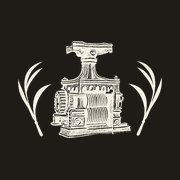
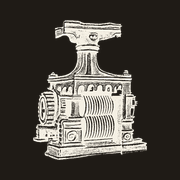
feat: remove compartilhar, salva login no aparelho e novo ícone da moenda
Login passa a ser guardado no gerenciador de senhas do aparelho e entra
sozinho quando há credencial salva. Ícone do app usa só a moenda, maior e
centralizado.

Claude-Session: https://claude.ai/code/session_01V3bzCXaJFJAvqZrzTezgY2

diff --git a/gestao/gestao.js b/gestao/gestao.js
@@ -1,5 +1,5 @@
-import { URL_SCRIPT } from "./config.js?v=8";
-import { iso, deIso, br, brl, parseValor, mascaraValor, noites, estadiaEm, saidaEm, conflito, grade, agora, fmtCheckIn, fmtCheckOut, HORA_CHECKOUT } from "./regras.js?v=8";
+import { URL_SCRIPT } from "./config.js?v=9";
+import { iso, deIso, br, brl, parseValor, mascaraValor, noites, estadiaEm, saidaEm, conflito, grade, agora, fmtCheckIn, fmtCheckOut, HORA_CHECKOUT } from "./regras.js?v=9";
 
 const QUARTOS = [1, 2, 3, 4, 5, 6, 7, 8, 9];
 const PAGAMENTOS = ["PIX", "Dinheiro", "Cartão de débito", "Cartão de crédito"];
@@ -56,6 +56,9 @@ function mostrarApp() {
 }
 function sair() {
   s.token = ""; s.regs = [];
+  $("senha").value = "";
+  // sair de propósito: o aparelho não deve entrar sozinho de novo até a próxima vez que tocar em Entrar
+  if (navigator.credentials?.preventSilentAccess) navigator.credentials.preventSilentAccess().catch(() => {});
   localStorage.removeItem(CHAVE_SESSAO);
   $("tela-app").hidden = true;
   $("tela-login").hidden = false;
@@ -71,7 +74,7 @@ $("form-login").addEventListener("submit", async (e) => {
     const r = await api("login", { usuario: $("usuario").value, senha: $("senha").value });
     s.token = r.token;
     localStorage.setItem(CHAVE_SESSAO, r.token);
-    $("senha").value = "";
+    await guardarSenha($("usuario").value, $("senha").value);
     mostrarApp();
     await carregar();
   } catch (err) {
@@ -81,6 +84,22 @@ $("form-login").addEventListener("submit", async (e) => {
   }
 });
 $("btn-sair").addEventListener("click", sair);
+
+// Gerenciador de senhas do celular/computador (Chrome, Android, Safari/iCloud): oferece salvar e preencher.
+async function guardarSenha(id, senha) {
+  if (!window.PasswordCredential || !navigator.credentials?.store) return;
+  try { await navigator.credentials.store(new PasswordCredential({ id, password: senha, name: id })); } catch (e) { /* o navegador decide */ }
+}
+async function entrarComSalva() {
+  if (s.token || !window.PasswordCredential || !navigator.credentials?.get) return;
+  try {
+    const c = await navigator.credentials.get({ password: true, mediation: "silent" });
+    if (c && c.password) {
+      $("usuario").value = c.id; $("senha").value = c.password;
+      $("form-login").requestSubmit();
+    }
+  } catch (e) { /* sem credencial salva: o preenchimento automático do navegador cuida */ }
+}
 $("btn-atualizar").addEventListener("click", async () => {
   try { await carregar(); avisar("Dados atualizados da planilha."); } catch (e) { avisar(e.message, true); }
 });
@@ -336,7 +355,7 @@ document.addEventListener("keydown", (e) => {
   if (s.picker) fecharPicker(); else if (s.quarto) fecharModal();
 });
 
-// ---------- compartilhar e instalar como aplicativo ----------
+// ---------- instalar como aplicativo ----------
 const URL_PAGINA = new URL("./", location.href).href;
 const modoApp = () => matchMedia("(display-mode: standalone)").matches || navigator.standalone === true;
 const ehIos = /iphone|ipad|ipod/i.test(navigator.userAgent);
@@ -348,14 +367,6 @@ if (modoApp()) document.querySelectorAll("[data-instalar]").forEach((b) => { b.h
 function recado(msg) {
   if (!$("tela-app").hidden) return avisar(msg);
   const d = $("dica"); d.textContent = msg; d.hidden = false;
-}
-async function compartilhar() {
-  const dados = { title: "Gestão · Pousada Engenho do Vô", text: "Acesso privado da pousada", url: URL_PAGINA };
-  if (navigator.share) {
-    try { await navigator.share(dados); return; } catch (e) { if (e.name === "AbortError") return; }
-  }
-  try { await navigator.clipboard.writeText(URL_PAGINA); recado("Link copiado: " + URL_PAGINA); }
-  catch (e) { recado("Copie o link: " + URL_PAGINA); }
 }
 async function instalar() {
   if (modoApp()) return recado("O aplicativo já está instalado neste aparelho.");
@@ -371,12 +382,12 @@ async function instalar() {
 }
 document.addEventListener("click", (e) => {
   const a = e.target.closest("[data-acao]")?.dataset.acao;
-  if (a === "compartilhar") compartilhar();
-  else if (a === "instalar") instalar();
+  if (a === "instalar") instalar();
 });
 if ("serviceWorker" in navigator) navigator.serviceWorker.register("sw.js", { scope: "./" }).catch(() => {});
 
 // ---------- início ----------
+entrarComSalva();
 if (s.token) {
   mostrarApp();
   carregar().catch((e) => { if (s.token) avisar(e.message, true); });

diff --git a/gestao/index.html b/gestao/index.html
@@ -12,27 +12,26 @@
   <link rel="apple-touch-icon" href="icones/apple-touch-icon.png">
   <meta name="robots" content="noindex, nofollow">
   <title>Acesso privado · Pousada Engenho do Vô</title>
-  <link rel="icon" href="../assets/logo/favicon.png">
+  <link rel="icon" href="icones/icone-192.png">
   <link rel="preconnect" href="https://fonts.googleapis.com">
   <link rel="preconnect" href="https://fonts.gstatic.com" crossorigin>
   <link href="https://fonts.googleapis.com/css2?family=Zilla+Slab:wght@600;700&family=Nunito+Sans:opsz,wght@6..12,400;6..12,600;6..12,800&display=swap" rel="stylesheet">
-  <link rel="stylesheet" href="gestao.css?v=8">
+  <link rel="stylesheet" href="gestao.css?v=9">
 </head>
 <body>
 
 <section id="tela-login" class="login">
-  <form id="form-login" class="login-caixa" autocomplete="on">
+  <form id="form-login" class="login-caixa" method="post" action="#" autocomplete="on">
     <img src="../assets/logo/logo-escuro.webp" alt="Pousada Engenho do Vô" width="120" height="120">
     <h1>Acesso privado</h1>
     <p class="muda">Área de gestão da pousada.</p>
     <label for="usuario">Usuário</label>
-    <input id="usuario" name="usuario" type="text" autocomplete="username" required>
+    <input id="usuario" name="username" type="text" autocomplete="username" autocapitalize="none" autocorrect="off" spellcheck="false" required>
     <label for="senha">Senha</label>
-    <input id="senha" name="senha" type="password" autocomplete="current-password" required>
+    <input id="senha" name="password" type="password" autocomplete="current-password" required>
     <p id="erro-login" class="erro" role="alert" hidden></p>
     <button class="btn" type="submit" id="btn-entrar">Entrar</button>
     <div class="login-extras">
-      <button class="btn-sec" type="button" data-acao="compartilhar">Compartilhar link</button>
       <button class="btn-sec" type="button" data-acao="instalar" data-instalar>Adicionar à tela inicial</button>
     </div>
     <p id="dica" class="dica" role="status" hidden></p>
@@ -52,7 +51,6 @@
         <div><span>Quartos ocupados</span><strong id="r-ocupados" class="verm">0 de 9</strong></div>
         <div><span>Hospedados</span><strong id="r-hospedados">0</strong></div>
         <div class="resumo-acoes">
-          <button class="btn-sec" type="button" data-acao="compartilhar">Compartilhar</button>
           <button class="btn-sec" type="button" data-acao="instalar" data-instalar>Instalar app</button>
           <button class="btn-sec" id="btn-sair" type="button">Sair</button>
         </div>
@@ -79,6 +77,6 @@
 <div id="modal" class="fundo" hidden></div>
 <div id="picker" class="fundo fundo-2" hidden></div>
 
-<script type="module" src="gestao.js?v=8"></script>
+<script type="module" src="gestao.js?v=9"></script>
 </body>
 </html>

diff --git a/gestao/gestao.css b/gestao/gestao.css
@@ -131,7 +131,7 @@ td { padding: 12px; border-bottom: 1px solid #efe9db; }
   .resumo { display: grid; grid-template-columns: repeat(3, minmax(0, 1fr)); gap: 8px 10px; padding: 12px; }
   .resumo strong { font-size: 18px; }
   .resumo span { font-size: 10.5px; letter-spacing: .03em; }
-  .resumo .resumo-acoes { grid-column: 1 / -1; display: grid; grid-template-columns: repeat(3, minmax(0, 1fr)); }
+  .resumo .resumo-acoes { grid-column: 1 / -1; display: grid; grid-template-columns: repeat(2, minmax(0, 1fr)); }
   .resumo-acoes .btn-sec { padding: 0 6px; font-size: 14px; }
   .corpo { gap: 14px; }
 

diff --git a/README.md b/README.md
@@ -44,5 +44,5 @@ Google "Hóspedes e Pagamentos".
 - A página é pública, mas sem login ela não mostra nada: os dados só saem do Apps Script com sessão válida
   (6 horas, bloqueio de 15 min após 5 erros).
 - Instalável como aplicativo: `gestao/manifest.webmanifest`, `gestao/sw.js` e `gestao/icones/`. Ao adicionar
-  `/gestao/` à tela inicial do celular, o ícone abre direto no painel. Botões "Compartilhar" e "Adicionar à tela inicial".
+  `/gestao/` à tela inicial do celular, o ícone abre direto no painel. Botão "Adicionar à tela inicial". O login pode ser salvo no gerenciador de senhas do aparelho.
   Ao mudar `gestao.js`, `gestao.css` ou `regras.js`, troque o número `?v=` em `gestao/index.html` e nos `import` de `gestao.js`.
